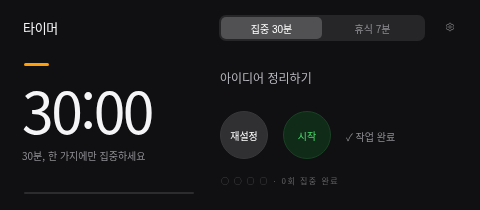
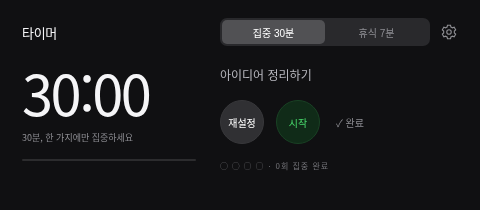
Align compact clock columns and standardize vertical spacing

diff --git a/app.js b/app.js
@@ -53,8 +53,8 @@ $('#float-timer').onclick=async()=>{
   if(!floatingWindow){toast('팝업이 차단되었어요. 이 사이트의 팝업을 허용해 주세요.');return}
   const doc=floatingWindow.document;
   doc.documentElement.lang='ko';doc.head.innerHTML='<meta name="viewport" content="width=device-width,initial-scale=1"><title>차곡 · 시계</title>';
-  const style=doc.createElement('style');style.textContent=`*{box-sizing:border-box}body{margin:0;background:#000;color:#f5f5f7;font-family:-apple-system,BlinkMacSystemFont,"Noto Sans KR",sans-serif;text-align:center;padding:22px}header{display:flex;justify-content:space-between;color:#999;font-size:11px}header b{color:#ff9f0a;font-size:13px;font-weight:500}h2{font-size:18px;margin:28px 0 8px;overflow:hidden;text-overflow:ellipsis;white-space:nowrap}p{font-size:11px;color:#8e8e93}.ring{border:5px solid #ff9f0a;border-radius:50%;width:220px;height:220px;margin:22px auto;display:flex;flex-direction:column;align-items:center;justify-content:center}#mini-timer{font-size:40px;font-weight:200;font-variant-numeric:tabular-nums;letter-spacing:-2px}small{font-size:11px;color:#8e8e93;margin-top:10px}.actions{display:flex;justify-content:space-between;max-width:250px;margin:auto}button{cursor:pointer;border:0;border-radius:50%;width:66px;height:66px;background:#29292b;color:#fff;font-size:12px}.primary{background:#092b16;color:#32d74b}.primary.running{background:#332000;color:#ff9f0a}.complete{width:100%;height:32px;border-radius:8px;margin-top:18px;color:#ff9f0a;background:transparent}`;style.textContent+=`body{padding:14px 18px}header{font-size:9px}header b{font-size:11px}h2{font-size:14px;margin:14px 0 4px}p{font-size:10px;margin:0}.ring{border:0;border-radius:0;width:auto;height:auto;margin:18px auto 14px}#mini-timer{font-size:49px;font-weight:200;color:#ff9f0a;letter-spacing:-2px}small{font-size:10px;margin-top:5px}.actions{max-width:220px}button{width:54px;height:54px;font-size:11px}.complete{margin-top:8px;height:28px;font-size:11px}`;style.textContent+=`header b{color:#ff6b5e}.pomo-tabs{display:flex;gap:5px;justify-content:center;margin:15px 0 0}.pomo-tabs button{width:auto;height:27px;padding:0 16px;border-radius:7px;background:#272729;color:#939399;font-size:10px}.pomo-tabs .selected{background:#ff6b5e;color:#160b0b}h2{margin:12px 0 4px}.ring{margin:12px auto}#mini-timer{color:#ff8478;font-size:52px;letter-spacing:-1px;font-weight:300}.actions{justify-content:center;gap:12px}.actions button{height:34px;border-radius:8px;width:84px}.actions .primary{background:#ff6b5e;color:#190909}.actions .primary.running{background:#502b29;color:#ffb3aa}.pomo-track{height:3px;border-radius:3px;background:#333;margin:10px auto 0;max-width:220px;overflow:hidden}.pomo-track div{height:100%;background:#ff6b5e}#mini-pomo-count{color:#8e8e93;font-size:9px;margin:7px 0}.complete{margin:0;height:22px;color:#aaa}body[data-phase=break] #mini-timer{color:#80cfb5}body[data-phase=break] .pomo-tabs .selected{background:#80cfb5}`;style.textContent+=`.pomo-settings{display:flex;justify-content:center;gap:12px;margin-top:8px;font-size:9px;color:#999}.pomo-settings input{width:37px;background:#272729;color:#eee;border:1px solid #444;border-radius:4px;padding:2px;text-align:center;font-size:10px}h2{margin-top:8px}.pomo-tabs{margin-top:8px}.ring{margin:8px auto}.pomo-track{margin-top:7px}#mini-pomo-count{margin:5px 0}`;style.textContent+=`#mini-focus-course{display:none}h2{margin:7px 0 0}.ring{margin:7px auto}#mini-timer{font-size:48px}small{margin-top:3px}.pomo-track{margin-top:6px}.complete{height:20px}#mini-pomo-count{margin:4px 0}`;style.textContent+=`body{padding:12px 20px;font-family:-apple-system,BlinkMacSystemFont,"Helvetica Neue",sans-serif}header{height:22px;align-items:center}header b{font-size:15px;color:#ff9f0a;font-weight:500}#mini-settings-toggle{background:transparent;width:26px;height:24px;font-size:20px;color:#8e8e93;border-radius:0}.pomo-tabs{position:absolute;top:12px;left:100px;margin:0;gap:0;background:#1c1c1e;border-radius:6px;padding:2px}.pomo-tabs button{background:transparent;height:23px;font-size:9px;padding:0 10px;color:#8e8e93;border-radius:4px}.pomo-tabs .selected,body[data-phase=break] .pomo-tabs .selected{background:#48484a;color:#fff}.pomo-settings{position:absolute;top:43px;left:20px;right:20px;z-index:2;background:#2c2c2e;border:1px solid #48484a;border-radius:10px;padding:16px 8px;box-shadow:0 10px 30px #000b;margin:0;color:#eee;font-size:11px}.pomo-settings[hidden]{display:none}.pomo-settings input{font-size:13px;width:43px;padding:5px}h2{font-size:11px;font-weight:400;color:#8e8e93;margin:12px 0 0}.ring{border:3px solid #ff9f0a;border-radius:50%;width:152px;height:152px;margin:12px auto 10px;position:relative}#mini-timer,body[data-phase=break] #mini-timer{color:#f5f5f7;font-size:34px;letter-spacing:-1.5px;font-weight:200}small{font-size:8px;max-width:130px;margin-top:7px;color:#8e8e93}.actions{justify-content:space-between;max-width:255px;position:relative;margin-top:-4px}.actions button{width:48px;height:48px;border-radius:50%;background:#2c2c2e;font-size:10px}.actions .primary{background:#092b16;color:#30d158}.actions .primary.running{background:#332000;color:#ff9f0a}.pomo-track,#mini-pomo-count{display:none}.complete{position:absolute;bottom:16px;left:110px;width:120px;font-size:9px;color:#8e8e93;height:25px}`;style.textContent+=`body{padding:0;overflow:hidden;background:#101012}header{position:absolute;top:16px;left:23px;right:19px;height:22px}header b{font-size:13px;letter-spacing:-.3px;color:#f5f5f7}#mini-settings-toggle{width:22px;height:22px;display:flex;align-items:center;justify-content:center;color:#8e8e93}.pomo-tabs{top:15px;left:219px;right:55px;height:26px;border-radius:7px;padding:2px;background:#262628}.pomo-tabs button{flex:1;height:22px;font-size:10px;padding:0 9px;border-radius:5px}.pomo-tabs .selected,body[data-phase=break] .pomo-tabs .selected{background:#515154}.ring{position:absolute;left:22px;top:53px;width:174px;height:132px;margin:0;border:0;border-radius:0;align-items:flex-start;justify-content:center}#mini-timer,body[data-phase=break] #mini-timer{font-size:57px;font-weight:200;letter-spacing:-2.5px;line-height:1.2;color:#f5f5f7;white-space:nowrap}small{font-size:10px;margin:5px 0 0;max-width:180px;text-align:left;color:#8e8e93;letter-spacing:0}.ring:before{content:"";width:25px;height:3px;border-radius:2px;background:#ff9f0a;position:absolute;top:10px;left:2px}h2{position:absolute;top:68px;left:220px;right:22px;margin:0;text-align:left;font-size:12px;font-weight:500;color:#b8b8bf;line-height:20px}.actions{position:absolute;top:111px;left:220px;right:21px;max-width:none;display:flex;justify-content:flex-start;gap:15px;margin:0}.actions button{width:48px;height:48px;border-radius:50%;font-size:10px;background:#303033;border:1px solid #38383b}.actions .primary{background:#102b18;color:#48d86b;border:1px solid #194124}.actions .primary.running{background:#382508;color:#ffb340;border:1px solid #51360d}.complete{left:346px;right:20px;top:124px;bottom:auto;width:auto;height:24px;font-size:10px;color:#8e8e93;text-align:left;padding:0}#mini-pomo-count{display:block;position:absolute;left:221px;right:22px;top:175px;margin:0;text-align:left;font-size:8px;letter-spacing:1.5px;color:#636366}.pomo-track{display:block;position:absolute;left:24px;bottom:16px;width:170px;max-width:none;margin:0;height:2px;background:#2c2c2e}.pomo-track div{background:#ff9f0a}.pomo-settings{left:215px;right:20px;top:49px;border-radius:10px;padding:16px 10px;flex-direction:column;gap:9px;align-items:flex-start;box-shadow:0 6px 24px #000b}.pomo-settings input{width:50px}body[data-phase=break] .ring:before,body[data-phase=break] .pomo-track div{background:#30d158}@media(max-width:430px){#mini-timer{font-size:48px}.ring{left:16px;width:155px}.pomo-tabs{left:187px}h2,.actions{left:188px}.complete{left:310px;font-size:9px}#mini-pomo-count{left:188px}.pomo-track{left:18px;width:149px}.pomo-settings{left:181px}}`;doc.head.append(style);
-  doc.body.innerHTML=`<header><b>타이머</b><button id="mini-settings-toggle" aria-label="시간 설정"><svg width="18" height="18" viewBox="0 0 24 24" fill="none" stroke="currentColor" stroke-width="1.5"><circle cx="12" cy="12" r="3"/><path d="m10 3 4 0 .6 2.5 2 .9 2.3-.8 2 3.5-1.8 1.7v2.4l1.8 1.7-2 3.5-2.3-.8-2 .9L14 21h-4l-.6-2.5-2-.9-2.3.8-2-3.5 1.8-1.7v-2.4L3.1 9.1l2-3.5 2.3.8 2-.9Z"/></svg></button><span hidden>${pinned?'항상 위에 표시 중':'별도 창 · 상단 고정 미지원'}</span></header><div class="pomo-tabs"><button id="mini-pomo-focus">집중 25분</button><button id="mini-pomo-break">휴식 5분</button></div><div class="pomo-settings" id="mini-settings" hidden><label>집중 <input id="mini-focus-minutes" type="number" min="1" max="180" aria-label="집중 시간"> 분</label><label>휴식 <input id="mini-break-minutes" type="number" min="1" max="180" aria-label="휴식 시간"> 분</label></div><h2 id="mini-focus-name"></h2><p id="mini-focus-course"></p><div class="ring"><span id="mini-timer"></span><small id="mini-timer-state"></small></div><div class="actions"><button id="mini-reset">재설정</button><button id="mini-toggle" class="primary">시작</button></div><div class="pomo-track"><div id="mini-pomo-progress"></div></div><p id="mini-pomo-count"></p><button class="complete" id="mini-complete">✓ 작업 완료</button>`;
+  const style=doc.createElement('style');style.textContent=`*{box-sizing:border-box}body{margin:0;background:#000;color:#f5f5f7;font-family:-apple-system,BlinkMacSystemFont,"Noto Sans KR",sans-serif;text-align:center;padding:22px}header{display:flex;justify-content:space-between;color:#999;font-size:11px}header b{color:#ff9f0a;font-size:13px;font-weight:500}h2{font-size:18px;margin:28px 0 8px;overflow:hidden;text-overflow:ellipsis;white-space:nowrap}p{font-size:11px;color:#8e8e93}.ring{border:5px solid #ff9f0a;border-radius:50%;width:220px;height:220px;margin:22px auto;display:flex;flex-direction:column;align-items:center;justify-content:center}#mini-timer{font-size:40px;font-weight:200;font-variant-numeric:tabular-nums;letter-spacing:-2px}small{font-size:11px;color:#8e8e93;margin-top:10px}.actions{display:flex;justify-content:space-between;max-width:250px;margin:auto}button{cursor:pointer;border:0;border-radius:50%;width:66px;height:66px;background:#29292b;color:#fff;font-size:12px}.primary{background:#092b16;color:#32d74b}.primary.running{background:#332000;color:#ff9f0a}.complete{width:100%;height:32px;border-radius:8px;margin-top:18px;color:#ff9f0a;background:transparent}`;style.textContent+=`body{padding:14px 18px}header{font-size:9px}header b{font-size:11px}h2{font-size:14px;margin:14px 0 4px}p{font-size:10px;margin:0}.ring{border:0;border-radius:0;width:auto;height:auto;margin:18px auto 14px}#mini-timer{font-size:49px;font-weight:200;color:#ff9f0a;letter-spacing:-2px}small{font-size:10px;margin-top:5px}.actions{max-width:220px}button{width:54px;height:54px;font-size:11px}.complete{margin-top:8px;height:28px;font-size:11px}`;style.textContent+=`header b{color:#ff6b5e}.pomo-tabs{display:flex;gap:5px;justify-content:center;margin:15px 0 0}.pomo-tabs button{width:auto;height:27px;padding:0 16px;border-radius:7px;background:#272729;color:#939399;font-size:10px}.pomo-tabs .selected{background:#ff6b5e;color:#160b0b}h2{margin:12px 0 4px}.ring{margin:12px auto}#mini-timer{color:#ff8478;font-size:52px;letter-spacing:-1px;font-weight:300}.actions{justify-content:center;gap:12px}.actions button{height:34px;border-radius:8px;width:84px}.actions .primary{background:#ff6b5e;color:#190909}.actions .primary.running{background:#502b29;color:#ffb3aa}.pomo-track{height:3px;border-radius:3px;background:#333;margin:10px auto 0;max-width:220px;overflow:hidden}.pomo-track div{height:100%;background:#ff6b5e}#mini-pomo-count{color:#8e8e93;font-size:9px;margin:7px 0}.complete{margin:0;height:22px;color:#aaa}body[data-phase=break] #mini-timer{color:#80cfb5}body[data-phase=break] .pomo-tabs .selected{background:#80cfb5}`;style.textContent+=`.pomo-settings{display:flex;justify-content:center;gap:12px;margin-top:8px;font-size:9px;color:#999}.pomo-settings input{width:37px;background:#272729;color:#eee;border:1px solid #444;border-radius:4px;padding:2px;text-align:center;font-size:10px}h2{margin-top:8px}.pomo-tabs{margin-top:8px}.ring{margin:8px auto}.pomo-track{margin-top:7px}#mini-pomo-count{margin:5px 0}`;style.textContent+=`#mini-focus-course{display:none}h2{margin:7px 0 0}.ring{margin:7px auto}#mini-timer{font-size:48px}small{margin-top:3px}.pomo-track{margin-top:6px}.complete{height:20px}#mini-pomo-count{margin:4px 0}`;style.textContent+=`body{padding:12px 20px;font-family:-apple-system,BlinkMacSystemFont,"Helvetica Neue",sans-serif}header{height:22px;align-items:center}header b{font-size:15px;color:#ff9f0a;font-weight:500}#mini-settings-toggle{background:transparent;width:26px;height:24px;font-size:20px;color:#8e8e93;border-radius:0}.pomo-tabs{position:absolute;top:12px;left:100px;margin:0;gap:0;background:#1c1c1e;border-radius:6px;padding:2px}.pomo-tabs button{background:transparent;height:23px;font-size:9px;padding:0 10px;color:#8e8e93;border-radius:4px}.pomo-tabs .selected,body[data-phase=break] .pomo-tabs .selected{background:#48484a;color:#fff}.pomo-settings{position:absolute;top:43px;left:20px;right:20px;z-index:2;background:#2c2c2e;border:1px solid #48484a;border-radius:10px;padding:16px 8px;box-shadow:0 10px 30px #000b;margin:0;color:#eee;font-size:11px}.pomo-settings[hidden]{display:none}.pomo-settings input{font-size:13px;width:43px;padding:5px}h2{font-size:11px;font-weight:400;color:#8e8e93;margin:12px 0 0}.ring{border:3px solid #ff9f0a;border-radius:50%;width:152px;height:152px;margin:12px auto 10px;position:relative}#mini-timer,body[data-phase=break] #mini-timer{color:#f5f5f7;font-size:34px;letter-spacing:-1.5px;font-weight:200}small{font-size:8px;max-width:130px;margin-top:7px;color:#8e8e93}.actions{justify-content:space-between;max-width:255px;position:relative;margin-top:-4px}.actions button{width:48px;height:48px;border-radius:50%;background:#2c2c2e;font-size:10px}.actions .primary{background:#092b16;color:#30d158}.actions .primary.running{background:#332000;color:#ff9f0a}.pomo-track,#mini-pomo-count{display:none}.complete{position:absolute;bottom:16px;left:110px;width:120px;font-size:9px;color:#8e8e93;height:25px}`;style.textContent+=`body{padding:0;overflow:hidden;background:#101012}header{position:absolute;top:16px;left:23px;right:19px;height:22px}header b{font-size:13px;letter-spacing:-.3px;color:#f5f5f7}#mini-settings-toggle{width:22px;height:22px;display:flex;align-items:center;justify-content:center;color:#8e8e93}.pomo-tabs{top:15px;left:219px;right:55px;height:26px;border-radius:7px;padding:2px;background:#262628}.pomo-tabs button{flex:1;height:22px;font-size:10px;padding:0 9px;border-radius:5px}.pomo-tabs .selected,body[data-phase=break] .pomo-tabs .selected{background:#515154}.ring{position:absolute;left:22px;top:53px;width:174px;height:132px;margin:0;border:0;border-radius:0;align-items:flex-start;justify-content:center}#mini-timer,body[data-phase=break] #mini-timer{font-size:57px;font-weight:200;letter-spacing:-2.5px;line-height:1.2;color:#f5f5f7;white-space:nowrap}small{font-size:10px;margin:5px 0 0;max-width:180px;text-align:left;color:#8e8e93;letter-spacing:0}.ring:before{content:"";width:25px;height:3px;border-radius:2px;background:#ff9f0a;position:absolute;top:10px;left:2px}h2{position:absolute;top:68px;left:220px;right:22px;margin:0;text-align:left;font-size:12px;font-weight:500;color:#b8b8bf;line-height:20px}.actions{position:absolute;top:111px;left:220px;right:21px;max-width:none;display:flex;justify-content:flex-start;gap:15px;margin:0}.actions button{width:48px;height:48px;border-radius:50%;font-size:10px;background:#303033;border:1px solid #38383b}.actions .primary{background:#102b18;color:#48d86b;border:1px solid #194124}.actions .primary.running{background:#382508;color:#ffb340;border:1px solid #51360d}.complete{left:346px;right:20px;top:124px;bottom:auto;width:auto;height:24px;font-size:10px;color:#8e8e93;text-align:left;padding:0}#mini-pomo-count{display:block;position:absolute;left:221px;right:22px;top:175px;margin:0;text-align:left;font-size:8px;letter-spacing:1.5px;color:#636366}.pomo-track{display:block;position:absolute;left:24px;bottom:16px;width:170px;max-width:none;margin:0;height:2px;background:#2c2c2e}.pomo-track div{background:#ff9f0a}.pomo-settings{left:215px;right:20px;top:49px;border-radius:10px;padding:16px 10px;flex-direction:column;gap:9px;align-items:flex-start;box-shadow:0 6px 24px #000b}.pomo-settings input{width:50px}body[data-phase=break] .ring:before,body[data-phase=break] .pomo-track div{background:#30d158}@media(max-width:430px){#mini-timer{font-size:48px}.ring{left:16px;width:155px}.pomo-tabs{left:187px}h2,.actions{left:188px}.complete{left:310px;font-size:9px}#mini-pomo-count{left:188px}.pomo-track{left:18px;width:149px}.pomo-settings{left:181px}}`;style.textContent+=`body{height:100vh;padding:18px 22px;display:flex;flex-direction:column;gap:20px;overflow:hidden}.mini-header,.mini-content{display:grid;grid-template-columns:174px minmax(0,1fr);column-gap:24px;width:100%}.mini-header{height:28px;align-items:center;flex-shrink:0}.mini-header>b{font-size:13px;font-weight:500;color:#f5f5f7;letter-spacing:-.3px}.mini-right-head{display:flex;align-items:center;gap:10px;min-width:0}.mini-right-head .pomo-tabs{position:static;inset:auto;display:flex;flex:1;min-width:0;height:28px;padding:2px;margin:0;background:#29292c;border-radius:7px}.mini-right-head .pomo-tabs button{min-width:0;height:24px;padding:0 8px;font-size:10px;white-space:nowrap}.mini-right-head #mini-settings-toggle{width:18px;height:24px;flex-shrink:0;padding:0;background:none;color:#8e8e93;border:0}.mini-content{flex:1;min-height:0;align-items:stretch}.mini-content .ring{position:static;inset:auto;width:auto;height:auto;margin:0;border:0;border-radius:0;display:flex;flex-direction:column;align-items:flex-start;justify-content:flex-start;gap:0;min-width:0}.mini-content .ring:before{display:none}.mini-content #mini-timer{font-size:56px;line-height:1.05;font-weight:200;letter-spacing:-2.5px;margin-top:-3px}.mini-content small{margin:8px 0 0;font-size:9px;line-height:15px;max-width:100%;white-space:nowrap}.mini-content .pomo-track{position:static;inset:auto;width:100%;max-width:none;margin:14px 0 0;height:2px;flex-shrink:0}.mini-details{display:flex;flex-direction:column;gap:16px;min-width:0}.mini-details h2{position:static;inset:auto;text-align:left;margin:0;font-size:12px;line-height:18px;font-weight:400;color:#b8b8bf;white-space:nowrap;overflow:hidden;text-overflow:ellipsis}.mini-details .actions{position:static;inset:auto;margin:0;display:flex;align-items:center;justify-content:flex-start;gap:12px;max-width:none;height:44px;flex-shrink:0}.mini-details .actions button{width:44px;height:44px;flex-shrink:0;font-size:10px}.mini-details .actions .complete{position:static;inset:auto;flex:1;width:auto;height:28px;border:0;border-radius:0;white-space:nowrap;background:transparent;padding:0;text-align:right;color:#8e8e93;font-size:10px}.mini-details #mini-pomo-count{position:static;inset:auto;margin:0;line-height:12px;text-align:left;font-size:8px;letter-spacing:1px;color:#747479}.pomo-settings{top:52px;left:218px;right:22px}@media(max-width:450px){body{padding:16px}.mini-header,.mini-content{grid-template-columns:155px minmax(0,1fr);column-gap:16px}.mini-content #mini-timer{font-size:50px}.mini-right-head{gap:6px}.mini-right-head .pomo-tabs button{padding:0 4px;font-size:9px}.mini-details .actions{gap:8px}.mini-details .actions button{width:38px;height:38px}.mini-details .actions .complete{font-size:9px}}`;style.textContent+=`.mini-header>b{text-align:left}.mini-details .actions .complete{flex:none;width:auto;padding:0 4px;text-align:left}`;doc.head.append(style);
+  doc.body.innerHTML=`<div class="mini-header"><b>타이머</b><div class="mini-right-head"><div class="pomo-tabs"><button id="mini-pomo-focus">집중</button><button id="mini-pomo-break">휴식</button></div><button id="mini-settings-toggle" aria-label="시간 설정"><svg width="18" height="18" viewBox="0 0 24 24" fill="none" stroke="currentColor" stroke-width="1.5"><circle cx="12" cy="12" r="3"/><path d="m10 3 4 0 .6 2.5 2 .9 2.3-.8 2 3.5-1.8 1.7v2.4l1.8 1.7-2 3.5-2.3-.8-2 .9L14 21h-4l-.6-2.5-2-.9-2.3.8-2-3.5 1.8-1.7v-2.4L3.1 9.1l2-3.5 2.3.8 2-.9Z"/></svg></button></div></div><div class="mini-content"><div class="ring"><span id="mini-timer"></span><small id="mini-timer-state"></small><div class="pomo-track"><div id="mini-pomo-progress"></div></div></div><div class="mini-details"><h2 id="mini-focus-name"></h2><p id="mini-focus-course" hidden></p><div class="actions"><button id="mini-reset">재설정</button><button id="mini-toggle" class="primary">시작</button><button class="complete" id="mini-complete">✓ 완료</button></div><p id="mini-pomo-count"></p></div></div><div class="pomo-settings" id="mini-settings" hidden><label>집중 <input id="mini-focus-minutes" type="number" min="1" max="180" aria-label="집중 시간"> 분</label><label>휴식 <input id="mini-break-minutes" type="number" min="1" max="180" aria-label="휴식 시간"> 분</label></div>`;
   doc.getElementById('mini-settings-toggle').onclick=()=>{const panel=doc.getElementById('mini-settings');panel.hidden=!panel.hidden};
   for(const id of ['toggle','reset','complete','pomo-focus','pomo-break'])doc.getElementById('mini-'+id).onclick=()=>{document.getElementById(id).click();};
   for(const id of ['focus-minutes','break-minutes'])doc.getElementById('mini-'+id).onchange=e=>{setPomoMinutes(id,e.target.value);syncFloating()};
